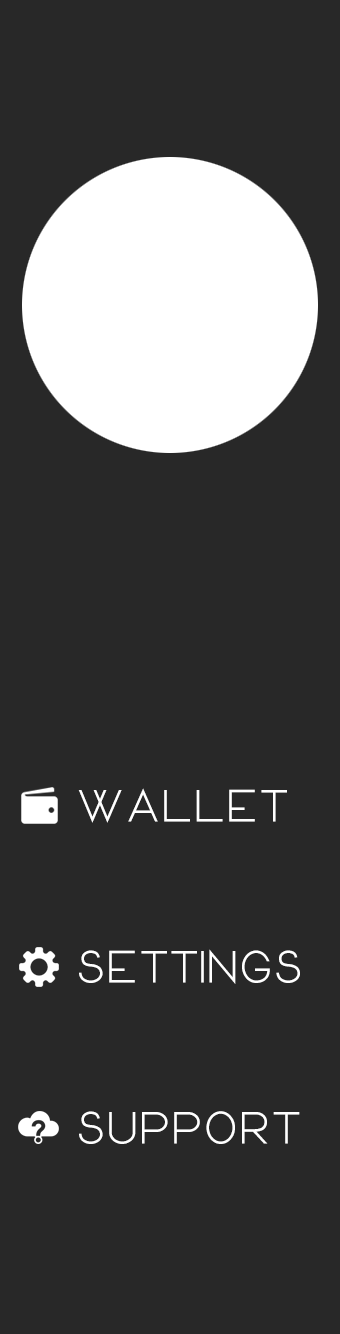
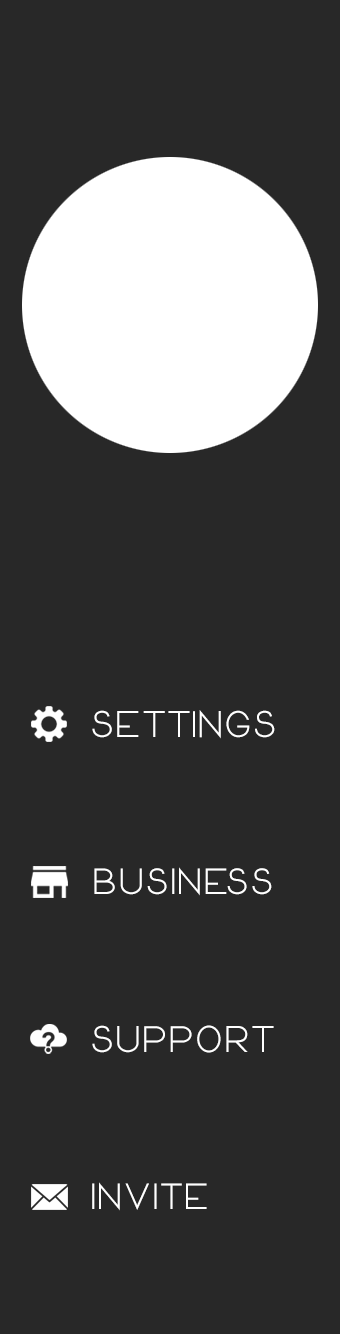
Created Business side with CityBoard creation screens.

diff --git a/Solution/Classes/Screens/BusinessScreen.cs b/Solution/Classes/Screens/BusinessScreen.cs
@@ -1,0 +1,162 @@
+using System;
+using System.Drawing;
+using System.Linq;
+
+using CoreGraphics;
+using Foundation;
+using UIKit;
+
+using CoreAnimation;
+using CoreText;
+
+using System.Net.Http;
+
+using System.Threading.Tasks;
+using System.Threading;
+using System.Collections.Generic;
+using Facebook.CoreKit;
+using Facebook.LoginKit;
+
+using Geolocator.Plugin;
+using Google.Maps;
+
+namespace Solution
+{
+	public class BusinessScreen : UIViewController
+	{
+		UIImageView banner;
+		UIImageView sidemenu;
+		ProfilePictureView profileView;
+		UIScrollView content;
+		UIImage circleImage;
+		float thumbSize;
+		bool sideMenuIsUp;
+
+		public BusinessScreen () : base ("Board", null){
+
+		}
+
+		public override void DidReceiveMemoryWarning ()
+		{
+			base.DidReceiveMemoryWarning ();
+		}
+
+		public override void ViewDidLoad ()
+		{
+			base.ViewDidLoad ();
+
+			NavigationController.NavigationBar.BarStyle = UIBarStyle.Default;
+			NavigationController.NavigationBarHidden = true;
+
+			InitializeInterface ();
+		}
+
+		private async void InitializeInterface()
+		{
+			LoadContent ();
+			LoadBanner ();
+			LoadSideMenu ();
+		}
+
+		private void LoadContent()
+		{
+			// si el usuario no tiene boards creados...
+			thumbSize = AppDelegate.ScreenWidth / 4;
+			circleImage = UIImage.FromFile ("./mainmenu/circle.png");
+			content = new UIScrollView(new CGRect(0, 0, AppDelegate.ScreenWidth, AppDelegate.ScreenHeight));
+
+			UIImageView imgv = new UIImageView (new CGRect(0,0,AppDelegate.ScreenWidth, AppDelegate.ScreenHeight));
+			imgv.Image = UIImage.FromFile ("./businessscreen/businesscontent.jpg");;
+
+			content.AddSubview (imgv);
+			content.ScrollEnabled = true;
+			content.UserInteractionEnabled = true;
+
+			UITapGestureRecognizer tap = new UITapGestureRecognizer ((tg) => {
+				if (sideMenuIsUp)
+				{sidemenu.Alpha = 0f; profileView.Alpha = 0f; sideMenuIsUp = false; return;}
+			});
+
+			content.AddGestureRecognizer (tap);
+
+			View.AddSubview (content);
+		}
+
+		private void LoadSideMenu()
+		{
+			UIImage bannerImage = UIImage.FromFile ("./businessscreen/sidemenu.png");
+
+			sidemenu = new UIImageView(new CGRect(0,0, bannerImage.Size.Width / 2, bannerImage.Size.Height / 2));
+			sidemenu.Image = bannerImage;
+
+			UITapGestureRecognizer tap = new UITapGestureRecognizer ((tg) => {
+				if (tg.LocationInView(this.View).Y > 400 && tg.LocationInView(this.View).Y < 500 ){
+					MainMenuScreen mainMenu = (MainMenuScreen)(NavigationController.ViewControllers[NavigationController.ViewControllers.Length - 2]);
+					mainMenu.HideSideMenu();
+					NavigationController.PopViewController(false);
+				}
+			});
+
+			sidemenu.UserInteractionEnabled = true;
+			sidemenu.AddGestureRecognizer (tap);
+			sidemenu.Alpha = 0f;
+
+			profileView = new ProfilePictureView (new CGRect (11, 78, 149, 149));
+			profileView.ProfileId = Profile.CurrentProfile.UserID;
+			profileView.Alpha = 0f;
+
+			sideMenuIsUp = false;
+
+			View.AddSubviews (profileView, sidemenu);
+
+			UIFont namefont = UIFont.FromName("narwhal-bold", 20);
+			UIFont lastnamefont = UIFont.FromName("narwhal-bold", 24);
+
+			UILabel name = new UILabel (new CGRect(0, profileView.Frame.Bottom + 15, sidemenu.Frame.Width, 20));
+			name.Font = namefont;
+			name.Text = Profile.CurrentProfile.FirstName;
+			name.TextColor = UIColor.White;
+			name.TextAlignment = UITextAlignment.Center;
+			name.AdjustsFontSizeToFitWidth = true;
+			sidemenu.AddSubview (name);
+
+			UILabel lastname = new UILabel (new CGRect(0, name.Frame.Bottom + 3, sidemenu.Frame.Width, 24));
+			lastname.Font = lastnamefont;
+			lastname.AdjustsFontSizeToFitWidth = true;
+			lastname.Text = Profile.CurrentProfile.LastName;
+			lastname.TextColor = UIColor.White;
+			lastname.TextAlignment = UITextAlignment.Center;
+			sidemenu.AddSubview (lastname);
+		}
+
+		private void LoadBanner()
+		{
+			UIImage bannerImage = UIImage.FromFile ("./businessscreen/menu_banner.jpg");
+
+			banner = new UIImageView(new CGRect(0,0, bannerImage.Size.Width / 2, bannerImage.Size.Height / 2));
+			banner.Image = bannerImage;
+
+			UITapGestureRecognizer tap = new UITapGestureRecognizer ((tg) => {
+				if (sideMenuIsUp)
+				{sidemenu.Alpha = 0f; profileView.Alpha = 0f; sideMenuIsUp = false; return;}
+
+				if (tg.LocationInView(this.View).X < AppDelegate.ScreenWidth / 3){
+					sidemenu.Alpha = 1f;
+					profileView.Alpha = 1f;
+					sideMenuIsUp = true;
+				}
+				else if (AppDelegate.ScreenWidth * 2/ 3 < tg.LocationInView(this.View).X){
+					CreateScreen1 createScreen1 = new CreateScreen1();
+					NavigationController.PushViewController(createScreen1, false);
+				}
+			});
+
+			banner.UserInteractionEnabled = true;
+			banner.AddGestureRecognizer (tap);
+			banner.Alpha = .95f;
+			View.AddSubview (banner);
+		}
+
+
+	}
+}

diff --git a/Solution/Classes/Screens/MainMenuScreen.cs b/Solution/Classes/Screens/MainMenuScreen.cs
@@ -3,8 +3,6 @@ using System.Drawing;
 using System.Linq;
 
 using CoreGraphics;
-
-
 using Foundation;
 using UIKit;
 
@@ -24,12 +22,11 @@ using Google.Maps;
 
 namespace Solution
 {
-	public partial class MainMenuScreen : UIViewController
+	public class MainMenuScreen : UIViewController
 	{
 		UIImageView banner;
 		UIImageView sidemenu;
 		UIImageView map_button;
-		//UIImageView map;
 		bool sideMenuIsUp;
 		ProfilePictureView profileView;
 		UIScrollView content;
@@ -171,7 +168,6 @@ namespace Solution
 				i++;
 				if (i >= 4) {
 					i = 1;
-					Console.WriteLine ("n is " + n);
 					yposition += thumbSize + 6;
 				}
 				content.AddSubview (igv);
@@ -179,9 +175,6 @@ namespace Solution
 
 			content.ScrollEnabled = true;
 			content.UserInteractionEnabled = true;
-
-
-			//float contentHeight = (float)(contentImage.Size.Height - (AppDelegate.ScreenHeight));
 
 			UITapGestureRecognizer tap = new UITapGestureRecognizer ((tg) => {
 				if (sideMenuIsUp)
@@ -195,6 +188,12 @@ namespace Solution
 			View.AddSubview (content);
 		}
 
+		public void HideSideMenu()
+		{
+			if (sideMenuIsUp)
+			{ sidemenu.Alpha = 0f; profileView.Alpha = 0f; sideMenuIsUp = false; }
+		}
+
 		private void LoadSideMenu()
 		{
 			UIImage bannerImage = UIImage.FromFile ("./mainmenu/sidemenu.png");
@@ -203,7 +202,10 @@ namespace Solution
 			sidemenu.Image = bannerImage;
 
 			UITapGestureRecognizer tap = new UITapGestureRecognizer ((tg) => {
-				
+				if (tg.LocationInView(this.View).Y > 400 && tg.LocationInView(this.View).Y < 500 ){
+					BusinessScreen screen = new BusinessScreen();
+					NavigationController.PushViewController(screen, false);
+				}
 			});
 
 			sidemenu.UserInteractionEnabled = true;
@@ -253,9 +255,6 @@ namespace Solution
 					sidemenu.Alpha = 1f;
 					profileView.Alpha = 1f;
 					sideMenuIsUp = true;
-				} else if (tg.LocationInView(this.View).X > (AppDelegate.ScreenWidth / 3) * 2){
-					CreateScreen1 createScreen1 = new CreateScreen1();
-					NavigationController.PushViewController(createScreen1, false);	
 				}
 			});
 
@@ -268,19 +267,14 @@ namespace Solution
 
 		private async System.Threading.Tasks.Task LoadLocation()
 		{
-			Console.WriteLine ("started");
-
+			// TODO: remove geolocator and move this to use google's own api
 			var locator = CrossGeolocator.Current;
 			locator.DesiredAccuracy = 50;
 			var position = await locator.GetPositionAsync (timeoutMilliseconds: 10000);
 
-			Console.WriteLine ("position is " + position.Latitude.ToString() + " long " + position.Longitude.ToString() );
-
-			// Create a GMSCameraPosition that tells the map to display the
-			// coordinate 37.79,-122.40 at zoom level 6.
 			var camera = CameraPosition.FromCamera (latitude: position.Latitude, 
 				longitude: position.Longitude, 
-				zoom: 12);
+				zoom: 15);
 
 			map.Camera = camera;
 		}

diff --git a/Solution/AppDelegate.cs b/Solution/AppDelegate.cs
@@ -53,11 +53,6 @@ namespace Solution
 			ScreenWidth = (float)UIScreen.MainScreen.Bounds.Width;
 			ScreenHeight = (float)UIScreen.MainScreen.Bounds.Height;
 
-
-			Console.WriteLine (AccessToken.CurrentAccessToken == null);
-
-			// CloudController = CloudController.DefaultService;
-
 			// create a new window instance based on the screen size
 			window = new UIWindow (UIScreen.MainScreen.Bounds);
 

diff --git a/Solution/Classes/Screens/CreateScreen1.cs b/Solution/Classes/Screens/CreateScreen1.cs
@@ -18,7 +18,7 @@ using Facebook.LoginKit;
 
 namespace Solution
 {
-	public partial class CreateScreen1 : UIViewController
+	public class CreateScreen1 : UIViewController
 	{
 		UIImageView banner;
 

diff --git a/Solution/Classes/Screens/LoginScreen.cs b/Solution/Classes/Screens/LoginScreen.cs
@@ -21,7 +21,7 @@ using Facebook.CoreKit;
 
 namespace Solution
 {
-	public partial class LoginScreen : UIViewController
+	public class LoginScreen : UIViewController
 	{
 		const int fontSize = 18;
 
